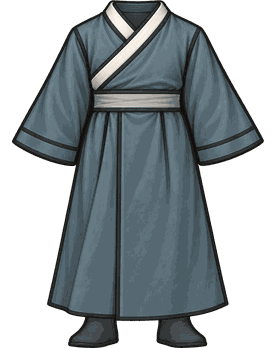
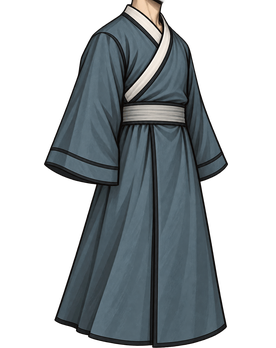
v334 도포 22장을 머리와 같은 3/4 시점·목 포함으로 다시 그림(sunburst) · v335 화면 수는 소수점 셋째 자리까지
Claude-Session: https://claude.ai/code/session_01A3prWCVJXDYfeByQW7RT7U

diff --git a/js/art.js b/js/art.js
@@ -53,8 +53,8 @@ const FILES = [
 // 그림을 어디에 얼마만큼 그릴지. 뼈대 좌표계 그대로다.
 // w는 폭(높이는 그림 비율대로), (x, y)는 **그림의 가운데 아래**가 놓일 자리.
 // 처음엔 몸통 46·검 11로 넣었는데 화면에서 재 보니 사람이 뚱뚱하고 검이 몸만 했다.
-// 도포 열여섯 장이 전부 92x116으로 구워져 있다(높이를 맞춰 어깨선을 한 줄에
-// 세운다). 그래서 아래 숫자 하나가 열여섯 장 전부에 같이 맞는다.
+// 도포 스물두 장이 전부 276x348로 구워져 있다 — v334부터 머리와 같은 3/4 시점에 목까지 그려,
+// 목 꼭대기가 맨 위·목 가운데가 머리 자리(x=1)·아랫단이 맨 아래(tools/charv334/fit_body.py).
 // 폭만 맞춰 굽던 때는 높이가 98~131이라 어깨가 제각각이었고, 머리를 고정
 // 좌표(-72)에 두니 **20px 떠 있었다.** 그게 '몸이 깨졌다'의 정체다.
 export const BODY_W = 50;                    // 그려지는 높이는 50 x 116/92 = 63
@@ -227,34 +227,9 @@ export function hatRect(hatKey, headKey, headFit) {
   const w = hf.w, h = (im.height * w) / im.width;
   return { x: headFit.x - w / 2 - 1, y: browY - h * 0.92, w, h, brim: browY };
 }
-// v332 도포 그림마다 어깨선이 다르다(276x348 캔버스에서 28~63px) — 머리는 한 자리(FIT.head)에 두니
-//   어깨가 낮고 목깃이 좁은 도포(홍의·흑의·적포)에서는 머리가 목깃 위에 막대 사탕처럼 떠 보였다.
-//   어깨선(가로로 절반 넘게 찬 첫 줄)을 재서 기준(백의 42px)보다 낮은 만큼 머리를 내린다(높으면 조금 올린다).
-const neckCache = new Map();
-const NECK_REF = 42;
-export function bodyNeckDy(key) {
-  if (!key) return 0;
-  if (neckCache.has(key)) return neckCache.get(key);
-  const im = img[key];
-  if (!im || typeof document === 'undefined') return 0;
-  let dy = 0;
-  try {
-    const c = document.createElement('canvas'); c.width = im.width; c.height = Math.min(im.height, Math.round(im.height * 0.35));
-    const g = c.getContext('2d'); g.drawImage(im, 0, 0);
-    const d = g.getImageData(0, 0, c.width, c.height).data;
-    const need = im.width * 0.5;
-    let sh = c.height;
-    for (let y = 0; y < c.height; y++) {
-      let n = 0;
-      for (let x = 0; x < c.width; x++) if (d[(y * c.width + x) * 4 + 3] > 120) n++;
-      if (n > need) { sh = y; break; }
-    }
-    const unit = FIT.body.w / im.width;   // 그림 1px → 뼈대 칸(도포는 폭 FIT.body.w로 그린다)
-    dy = Math.max(-3, Math.min(7, (sh - NECK_REF * im.height / 348) * unit * (sh > NECK_REF ? 0.8 : 0.5)));
-  } catch { dy = 0; }
-  neckCache.set(key, dy);
-  return dy;
-}
+// v334 도포 22장을 머리와 같은 3/4 시점·목 포함으로 다시 그려(tools/charv334) 목 꼭대기가 캔버스 맨 위·목 가운데가 머리 자리(x=1)에 오게 맞췄다.
+//   그래서 도포마다 머리를 따로 내릴 일이 없다(v332의 어깨선 재기는 정면 도포 때 것 — 0으로).
+export function bodyNeckDy() { return 0; }
 export function artImg(key) { return img[key] || null; }
 // v325 캔버스로 그린 조각(여협 머리)을 그림 조각처럼 쓴다 — putArt·artHeight·HEAD_FIT이 그대로 통한다
 export function registerArt(key, canvas, fit) { img[key] = canvas; if (fit) HEAD_FIT[key] = fit; }

diff --git a/js/ui/common.js b/js/ui/common.js
@@ -3,16 +3,24 @@ import { big } from '../big.js';
 import { GRADES, GACHA_LV_MAX, GACHA_GRADE_OPEN, gachaLvNeed, gachaMaxGrade } from '../data.js';
 import { fmt, pct } from '../fmt.js';
 
+// v335 화면에 찍히는 수는 소수점 셋째 자리까지(반올림) — 셈한 값(0.015×3×100 = 4.500000000000001 같은 것)이 그대로 찍히던 것.
+//   글자 조각(h의 아이·toast·textContent 대신 쓰는 setText)에서 넷째 자리 아래가 있는 수만 고친다. 1e21 같은 지수 표기는 건드리지 않는다.
+const LONG_DEC = /(^|[^\d.])(\d+\.\d{4,})(?![\d.])/g;
+export function tidyNum(t) {
+  if (typeof t === 'number') return Math.round(t * 1000) / 1000;
+  if (typeof t !== 'string' || !/\.\d{4}/.test(t)) return t;
+  return t.replace(LONG_DEC, (m, a, d) => a + String(Math.round(parseFloat(d) * 1000) / 1000));
+}
 export function h(tag, attrs = {}, ...kids) {
   const el = document.createElement(tag);
   for (const [k, v] of Object.entries(attrs || {})) {
     if (v === undefined || v === null || v === false) continue;
     if (k === 'class') el.className = v;
-    else if (k === 'html') el.innerHTML = v;
+    else if (k === 'html') el.innerHTML = tidyNum(v);
     else if (k.startsWith('on')) el.addEventListener(k.slice(2), v);
     else el.setAttribute(k, v === true ? '' : v);
   }
-  for (const kid of kids.flat()) if (kid !== null && kid !== undefined && kid !== false) el.append(kid);
+  for (const kid of kids.flat()) if (kid !== null && kid !== undefined && kid !== false) el.append(typeof kid === 'string' || typeof kid === 'number' ? String(tidyNum(kid)) : kid);
   return el;
 }
 
@@ -53,7 +61,7 @@ export function popUp(el, text) {
 
 export function toast(text) {
   const box = document.getElementById('toast');
-  const el = h('div', { class: 'toast' }, text);
+  const el = h('div', { class: 'toast' }, tidyNum(text));
   box.append(el);
   setTimeout(() => el.remove(), 2700);
   while (box.children.length > 3) box.firstChild.remove();

diff --git a/sw.js b/sw.js
@@ -1,5 +1,5 @@
 // 앱 껍데기를 캐시해 오프라인에서도 열리게 한다. 온라인이면 항상 새 파일을 먼저 받는다.
-const CACHE = 'ifu-v333';
+const CACHE = 'ifu-v335';
 const SHELL = [
   './', 'index.html', 'install.html', 'icons/qr-install.png', 'css/style.css', 'manifest.webmanifest',
   'js/big.js', 'js/data.js', 'js/battle.js', 'js/net.js', 'js/savecode.js', 'js/art2.js', 'js/headanchor.js', 'js/chars.js', 'js/femhead.js', 'js/fmt.js', 'js/firebase-config.js',

diff --git a/js/data.js b/js/data.js
@@ -51,7 +51,7 @@ export const critExpect = (C, D) => {
 // NaN이 된다 — 재 보니 적 체력이 관문 8467에서 그 선을 넘었다.
 // 반대로 상한이 있는 값(경지 배수·초월 단계처럼)은 보통 숫자 그대로 둔다.
 
-export const BUILD = 'ifu-v333';
+export const BUILD = 'ifu-v335';
 
 export const SAVE_VERSION = 4;
 export const OFFLINE_CAP_SEC = 12 * 3600;

diff --git a/tools/charv334/fit_body.py b/tools/charv334/fit_body.py
@@ -1,0 +1,24 @@
+# v334 다시 그린 도포(3/4 시점·목 포함)를 게임 조각(276x348 · 아랫단이 바닥 · 목 가운데가 머리 자리)으로 맞춘다.
+#   머리는 FIT.head x=1(뼈대 칸) → 캔버스 가운데(138)에서 5.5px 오른쪽. 목 가운데를 거기에 둔다. 높이는 목 꼭대기~아랫단 = 348.
+import glob, os
+from PIL import Image
+OUT = '../../art/hero'
+CW, CH = 276, 348
+HEAD_X = 138 + 1 * 276 / 50
+def trim(im, th=20):
+    bb = im.getchannel('A').point(lambda v: 255 if v > th else 0).getbbox()
+    return im.crop(bb)
+for f in sorted(glob.glob('gen/body-*.png')):
+    n = os.path.basename(f)
+    im = trim(Image.open(f).convert('RGBA'))
+    k = CH / im.height
+    im = im.resize((round(im.width * k), CH), Image.LANCZOS)
+    px = im.load(); w = im.width
+    # 목 가운데 — 위 4% 줄의 불투명 x 평균
+    xs = [x for y in range(0, max(2, CH * 4 // 100)) for x in range(w) if px[x, y][3] > 120]
+    ncx = sum(xs) / len(xs)
+    cv = Image.new('RGBA', (CW, CH), (0, 0, 0, 0))
+    ox = round(HEAD_X - ncx)
+    cv.alpha_composite(im, (ox, 0)) if 0 <= ox and ox + w <= CW else cv.paste(im, (ox, 0), im)
+    cv.save(f'{OUT}/{n}', optimize=True)
+    print(n, im.size, 'neck cx %.0f → ox %d' % (ncx, ox))
